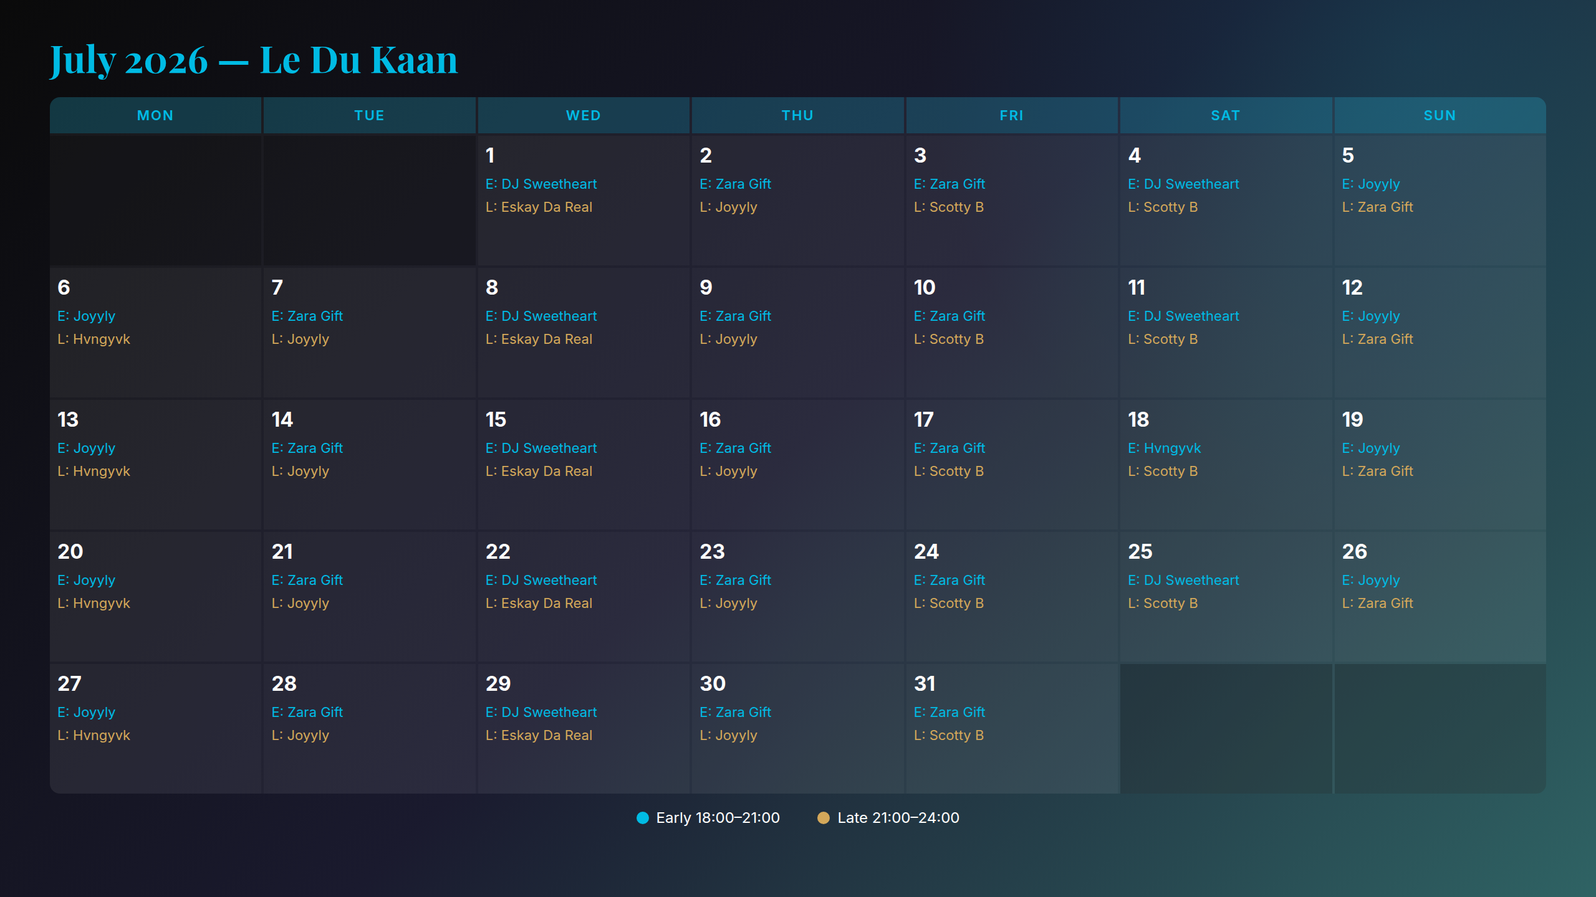
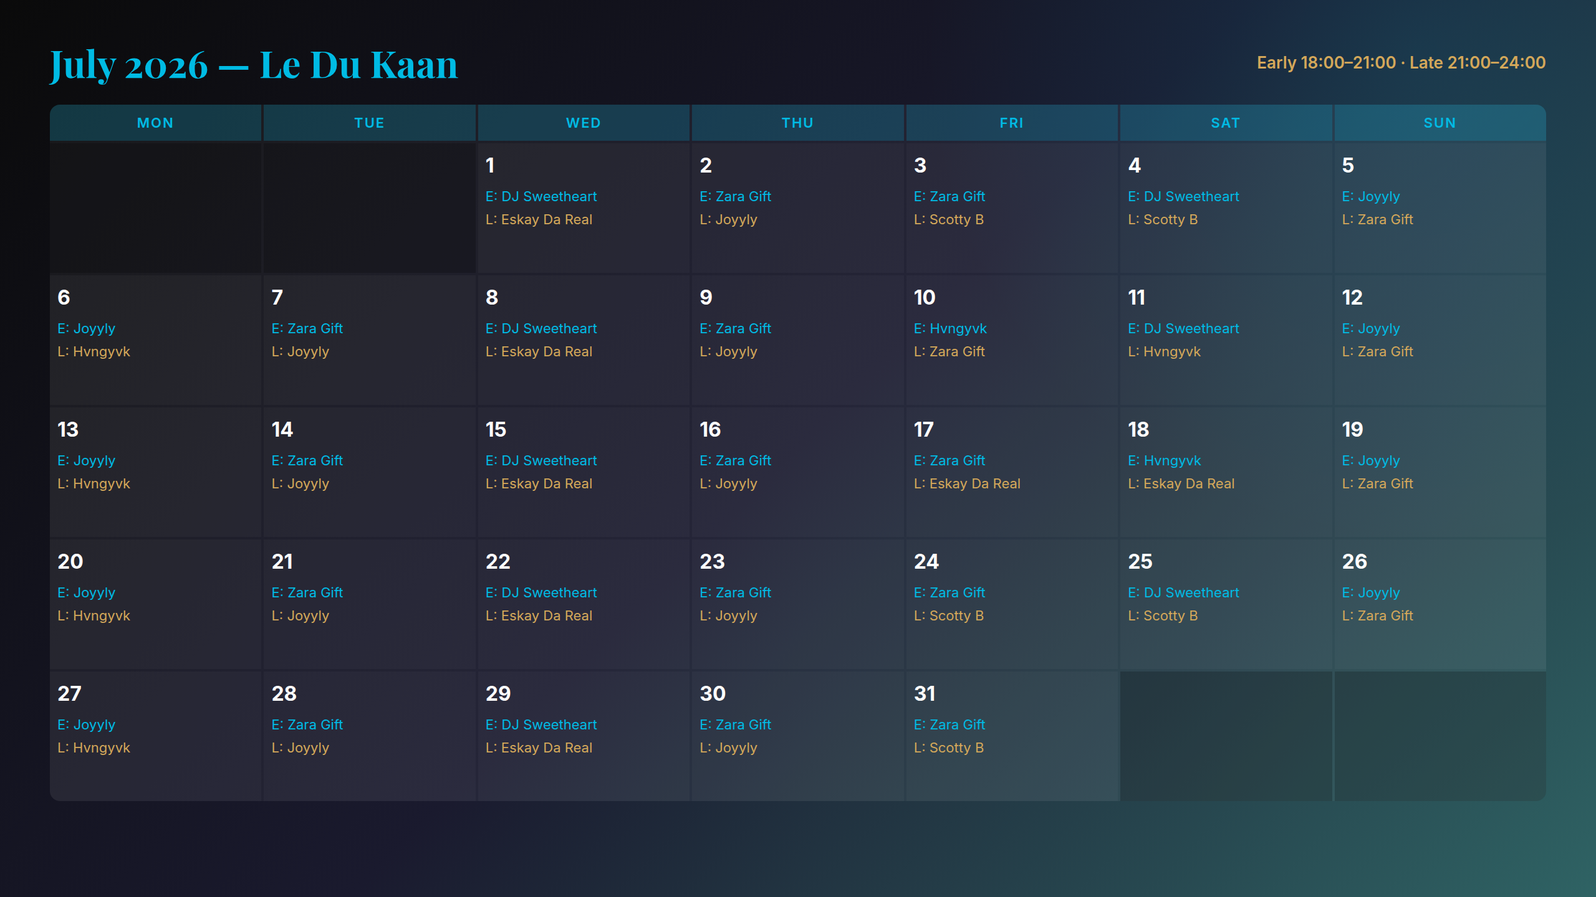
calendars: regenerate July ABar + LDK from DB (Scotty holiday covers)

diff --git a/presentations/july-2026-ldk-schedule.html b/presentations/july-2026-ldk-schedule.html
@@ -1,202 +1,34 @@
-<!DOCTYPE html>
-<html lang="en"><head><meta charset="UTF-8">
+<!DOCTYPE html><html lang="en"><head><meta charset="UTF-8">
 <title>July 2026 Le Du Kaan Schedule - Bright Ears</title>
 <link href="https://fonts.googleapis.com/css2?family=Playfair+Display:wght@400;700&family=Inter:wght@300;400;500;600;700&display=swap" rel="stylesheet">
-<style>
-*{margin:0;padding:0;box-sizing:border-box;}
-:root{--cyan:#00bbe4;--teal:#2f6364;--lavender:#d59ec9;--gold:#d4a85a;--black:#0a0a0a;--white:#ffffff;}
+<style>*{margin:0;padding:0;box-sizing:border-box;}
+:root{--cyan:#00bbe4;--teal:#2f6364;--gold:#d4a85a;--black:#0a0a0a;--white:#ffffff;}
 body{font-family:'Inter',sans-serif;background:var(--black);color:var(--white);}
 @page{size:1280px 720px;margin:0;}
 .slide{width:1280px;height:720px;background:linear-gradient(135deg,var(--black) 0%,#1a1a2e 50%,var(--teal) 100%);position:relative;overflow:hidden;}
 .slide::before{content:'';position:absolute;top:-50%;right:-20%;width:800px;height:800px;background:radial-gradient(circle,rgba(0,187,228,0.12) 0%,transparent 70%);border-radius:50%;}
-.page-calendar{padding:26px 40px;position:relative;z-index:1;}
-.calendar-header{display:flex;justify-content:space-between;align-items:center;margin-bottom:12px;}
+.page-calendar{padding:30px 40px;position:relative;z-index:1;}
+.calendar-header{display:flex;justify-content:space-between;align-items:center;margin-bottom:14px;}
 .calendar-title{font-family:'Playfair Display',serif;font-size:30px;font-weight:700;color:var(--cyan);}
 .calendar-sub{font-size:13px;color:var(--gold);font-weight:600;}
 .calendar-grid{display:grid;grid-template-columns:repeat(7,1fr);gap:2px;background:rgba(255,255,255,0.05);border-radius:8px;overflow:hidden;}
 .calendar-day-header{background:rgba(0,187,228,0.2);padding:8px 4px;text-align:center;font-weight:600;font-size:11px;text-transform:uppercase;letter-spacing:1px;color:var(--cyan);}
-.calendar-cell{background:rgba(255,255,255,0.03);padding:6px 6px;min-height:104px;display:flex;flex-direction:column;}
+.calendar-cell{background:rgba(255,255,255,0.03);padding:8px 6px;min-height:104px;display:flex;flex-direction:column;}
 .calendar-cell.empty{background:rgba(0,0,0,0.2);}
-.day-number{font-size:16px;font-weight:700;color:var(--white);margin-bottom:4px;}
-.dj-slot{font-size:11px;line-height:1.5;padding:1px 0;}
-.dj-slot.early{color:var(--cyan);}
-.dj-slot.late{color:var(--gold);}
-.calendar-legend{display:flex;justify-content:center;gap:30px;margin-top:12px;font-size:12px;}
-.legend-item{display:flex;align-items:center;gap:6px;}
-.legend-dot{width:10px;height:10px;border-radius:50%;}
-.legend-dot.early{background:var(--cyan);}
-.legend-dot.late{background:var(--gold);}
-@media print{.slide{-webkit-print-color-adjust:exact;print-color-adjust:exact;}}
-</style></head>
+.day-number{font-size:16px;font-weight:700;color:var(--white);margin-bottom:6px;}
+.dj-slot{font-size:13px;line-height:1.5;}
+.dj-slot.abar{color:var(--cyan);font-weight:500;}
+.dj-slot.single{color:var(--cyan);font-weight:500;}
+.dj-slot.early{color:var(--cyan);font-size:11px;line-height:1.5;padding:1px 0;}
+.dj-slot.late{color:var(--gold);font-size:11px;line-height:1.5;padding:1px 0;}
+@media print{.slide{-webkit-print-color-adjust:exact;print-color-adjust:exact;}}</style></head>
 <body><div class="slide"><div class="page-calendar">
 <div class="calendar-header">
 <h2 class="calendar-title">July 2026 &mdash; Le Du Kaan</h2>
-
+<div class="calendar-sub">Early 18:00&ndash;21:00 &middot; Late 21:00&ndash;24:00</div>
 </div>
 <div class="calendar-grid">
 <div class="calendar-day-header">Mon</div><div class="calendar-day-header">Tue</div><div class="calendar-day-header">Wed</div><div class="calendar-day-header">Thu</div><div class="calendar-day-header">Fri</div><div class="calendar-day-header">Sat</div><div class="calendar-day-header">Sun</div>
-      <div class="calendar-cell empty"></div>
-      <div class="calendar-cell empty"></div>
-      <div class="calendar-cell">
-        <div class="day-number">1</div>
-        <div class="dj-slot early">E: DJ Sweetheart</div>
-        <div class="dj-slot late">L: Eskay Da Real</div>
-      </div>
-      <div class="calendar-cell">
-        <div class="day-number">2</div>
-        <div class="dj-slot early">E: Zara Gift</div>
-        <div class="dj-slot late">L: Joyyly</div>
-      </div>
-      <div class="calendar-cell">
-        <div class="day-number">3</div>
-        <div class="dj-slot early">E: Zara Gift</div>
-        <div class="dj-slot late">L: Scotty B</div>
-      </div>
-      <div class="calendar-cell">
-        <div class="day-number">4</div>
-        <div class="dj-slot early">E: DJ Sweetheart</div>
-        <div class="dj-slot late">L: Scotty B</div>
-      </div>
-      <div class="calendar-cell">
-        <div class="day-number">5</div>
-        <div class="dj-slot early">E: Joyyly</div>
-        <div class="dj-slot late">L: Zara Gift</div>
-      </div>
-      <div class="calendar-cell">
-        <div class="day-number">6</div>
-        <div class="dj-slot early">E: Joyyly</div>
-        <div class="dj-slot late">L: Hvngyvk</div>
-      </div>
-      <div class="calendar-cell">
-        <div class="day-number">7</div>
-        <div class="dj-slot early">E: Zara Gift</div>
-        <div class="dj-slot late">L: Joyyly</div>
-      </div>
-      <div class="calendar-cell">
-        <div class="day-number">8</div>
-        <div class="dj-slot early">E: DJ Sweetheart</div>
-        <div class="dj-slot late">L: Eskay Da Real</div>
-      </div>
-      <div class="calendar-cell">
-        <div class="day-number">9</div>
-        <div class="dj-slot early">E: Zara Gift</div>
-        <div class="dj-slot late">L: Joyyly</div>
-      </div>
-      <div class="calendar-cell">
-        <div class="day-number">10</div>
-        <div class="dj-slot early">E: Zara Gift</div>
-        <div class="dj-slot late">L: Scotty B</div>
-      </div>
-      <div class="calendar-cell">
-        <div class="day-number">11</div>
-        <div class="dj-slot early">E: DJ Sweetheart</div>
-        <div class="dj-slot late">L: Scotty B</div>
-      </div>
-      <div class="calendar-cell">
-        <div class="day-number">12</div>
-        <div class="dj-slot early">E: Joyyly</div>
-        <div class="dj-slot late">L: Zara Gift</div>
-      </div>
-      <div class="calendar-cell">
-        <div class="day-number">13</div>
-        <div class="dj-slot early">E: Joyyly</div>
-        <div class="dj-slot late">L: Hvngyvk</div>
-      </div>
-      <div class="calendar-cell">
-        <div class="day-number">14</div>
-        <div class="dj-slot early">E: Zara Gift</div>
-        <div class="dj-slot late">L: Joyyly</div>
-      </div>
-      <div class="calendar-cell">
-        <div class="day-number">15</div>
-        <div class="dj-slot early">E: DJ Sweetheart</div>
-        <div class="dj-slot late">L: Eskay Da Real</div>
-      </div>
-      <div class="calendar-cell">
-        <div class="day-number">16</div>
-        <div class="dj-slot early">E: Zara Gift</div>
-        <div class="dj-slot late">L: Joyyly</div>
-      </div>
-      <div class="calendar-cell">
-        <div class="day-number">17</div>
-        <div class="dj-slot early">E: Zara Gift</div>
-        <div class="dj-slot late">L: Scotty B</div>
-      </div>
-      <div class="calendar-cell">
-        <div class="day-number">18</div>
-        <div class="dj-slot early">E: Hvngyvk</div>
-        <div class="dj-slot late">L: Scotty B</div>
-      </div>
-      <div class="calendar-cell">
-        <div class="day-number">19</div>
-        <div class="dj-slot early">E: Joyyly</div>
-        <div class="dj-slot late">L: Zara Gift</div>
-      </div>
-      <div class="calendar-cell">
-        <div class="day-number">20</div>
-        <div class="dj-slot early">E: Joyyly</div>
-        <div class="dj-slot late">L: Hvngyvk</div>
-      </div>
-      <div class="calendar-cell">
-        <div class="day-number">21</div>
-        <div class="dj-slot early">E: Zara Gift</div>
-        <div class="dj-slot late">L: Joyyly</div>
-      </div>
-      <div class="calendar-cell">
-        <div class="day-number">22</div>
-        <div class="dj-slot early">E: DJ Sweetheart</div>
-        <div class="dj-slot late">L: Eskay Da Real</div>
-      </div>
-      <div class="calendar-cell">
-        <div class="day-number">23</div>
-        <div class="dj-slot early">E: Zara Gift</div>
-        <div class="dj-slot late">L: Joyyly</div>
-      </div>
-      <div class="calendar-cell">
-        <div class="day-number">24</div>
-        <div class="dj-slot early">E: Zara Gift</div>
-        <div class="dj-slot late">L: Scotty B</div>
-      </div>
-      <div class="calendar-cell">
-        <div class="day-number">25</div>
-        <div class="dj-slot early">E: DJ Sweetheart</div>
-        <div class="dj-slot late">L: Scotty B</div>
-      </div>
-      <div class="calendar-cell">
-        <div class="day-number">26</div>
-        <div class="dj-slot early">E: Joyyly</div>
-        <div class="dj-slot late">L: Zara Gift</div>
-      </div>
-      <div class="calendar-cell">
-        <div class="day-number">27</div>
-        <div class="dj-slot early">E: Joyyly</div>
-        <div class="dj-slot late">L: Hvngyvk</div>
-      </div>
-      <div class="calendar-cell">
-        <div class="day-number">28</div>
-        <div class="dj-slot early">E: Zara Gift</div>
-        <div class="dj-slot late">L: Joyyly</div>
-      </div>
-      <div class="calendar-cell">
-        <div class="day-number">29</div>
-        <div class="dj-slot early">E: DJ Sweetheart</div>
-        <div class="dj-slot late">L: Eskay Da Real</div>
-      </div>
-      <div class="calendar-cell">
-        <div class="day-number">30</div>
-        <div class="dj-slot early">E: Zara Gift</div>
-        <div class="dj-slot late">L: Joyyly</div>
-      </div>
-      <div class="calendar-cell">
-        <div class="day-number">31</div>
-        <div class="dj-slot early">E: Zara Gift</div>
-        <div class="dj-slot late">L: Scotty B</div>
-      </div>
-      <div class="calendar-cell empty"></div>
-      <div class="calendar-cell empty"></div>
-</div>
-<div class="calendar-legend">
-<div class="legend-item"><span class="legend-dot early"></span> Early 18:00&ndash;21:00</div>
-<div class="legend-item"><span class="legend-dot late"></span> Late 21:00&ndash;24:00</div>
+<div class="calendar-cell empty"></div><div class="calendar-cell empty"></div><div class="calendar-cell"><div class="day-number">1</div><div class="dj-slot early">E: DJ Sweetheart</div><div class="dj-slot late">L: Eskay Da Real</div></div><div class="calendar-cell"><div class="day-number">2</div><div class="dj-slot early">E: Zara Gift</div><div class="dj-slot late">L: Joyyly</div></div><div class="calendar-cell"><div class="day-number">3</div><div class="dj-slot early">E: Zara Gift</div><div class="dj-slot late">L: Scotty B</div></div><div class="calendar-cell"><div class="day-number">4</div><div class="dj-slot early">E: DJ Sweetheart</div><div class="dj-slot late">L: Scotty B</div></div><div class="calendar-cell"><div class="day-number">5</div><div class="dj-slot early">E: Joyyly</div><div class="dj-slot late">L: Zara Gift</div></div><div class="calendar-cell"><div class="day-number">6</div><div class="dj-slot early">E: Joyyly</div><div class="dj-slot late">L: Hvngyvk</div></div><div class="calendar-cell"><div class="day-number">7</div><div class="dj-slot early">E: Zara Gift</div><div class="dj-slot late">L: Joyyly</div></div><div class="calendar-cell"><div class="day-number">8</div><div class="dj-slot early">E: DJ Sweetheart</div><div class="dj-slot late">L: Eskay Da Real</div></div><div class="calendar-cell"><div class="day-number">9</div><div class="dj-slot early">E: Zara Gift</div><div class="dj-slot late">L: Joyyly</div></div><div class="calendar-cell"><div class="day-number">10</div><div class="dj-slot early">E: Hvngyvk</div><div class="dj-slot late">L: Zara Gift</div></div><div class="calendar-cell"><div class="day-number">11</div><div class="dj-slot early">E: DJ Sweetheart</div><div class="dj-slot late">L: Hvngyvk</div></div><div class="calendar-cell"><div class="day-number">12</div><div class="dj-slot early">E: Joyyly</div><div class="dj-slot late">L: Zara Gift</div></div><div class="calendar-cell"><div class="day-number">13</div><div class="dj-slot early">E: Joyyly</div><div class="dj-slot late">L: Hvngyvk</div></div><div class="calendar-cell"><div class="day-number">14</div><div class="dj-slot early">E: Zara Gift</div><div class="dj-slot late">L: Joyyly</div></div><div class="calendar-cell"><div class="day-number">15</div><div class="dj-slot early">E: DJ Sweetheart</div><div class="dj-slot late">L: Eskay Da Real</div></div><div class="calendar-cell"><div class="day-number">16</div><div class="dj-slot early">E: Zara Gift</div><div class="dj-slot late">L: Joyyly</div></div><div class="calendar-cell"><div class="day-number">17</div><div class="dj-slot early">E: Zara Gift</div><div class="dj-slot late">L: Eskay Da Real</div></div><div class="calendar-cell"><div class="day-number">18</div><div class="dj-slot early">E: Hvngyvk</div><div class="dj-slot late">L: Eskay Da Real</div></div><div class="calendar-cell"><div class="day-number">19</div><div class="dj-slot early">E: Joyyly</div><div class="dj-slot late">L: Zara Gift</div></div><div class="calendar-cell"><div class="day-number">20</div><div class="dj-slot early">E: Joyyly</div><div class="dj-slot late">L: Hvngyvk</div></div><div class="calendar-cell"><div class="day-number">21</div><div class="dj-slot early">E: Zara Gift</div><div class="dj-slot late">L: Joyyly</div></div><div class="calendar-cell"><div class="day-number">22</div><div class="dj-slot early">E: DJ Sweetheart</div><div class="dj-slot late">L: Eskay Da Real</div></div><div class="calendar-cell"><div class="day-number">23</div><div class="dj-slot early">E: Zara Gift</div><div class="dj-slot late">L: Joyyly</div></div><div class="calendar-cell"><div class="day-number">24</div><div class="dj-slot early">E: Zara Gift</div><div class="dj-slot late">L: Scotty B</div></div><div class="calendar-cell"><div class="day-number">25</div><div class="dj-slot early">E: DJ Sweetheart</div><div class="dj-slot late">L: Scotty B</div></div><div class="calendar-cell"><div class="day-number">26</div><div class="dj-slot early">E: Joyyly</div><div class="dj-slot late">L: Zara Gift</div></div><div class="calendar-cell"><div class="day-number">27</div><div class="dj-slot early">E: Joyyly</div><div class="dj-slot late">L: Hvngyvk</div></div><div class="calendar-cell"><div class="day-number">28</div><div class="dj-slot early">E: Zara Gift</div><div class="dj-slot late">L: Joyyly</div></div><div class="calendar-cell"><div class="day-number">29</div><div class="dj-slot early">E: DJ Sweetheart</div><div class="dj-slot late">L: Eskay Da Real</div></div><div class="calendar-cell"><div class="day-number">30</div><div class="dj-slot early">E: Zara Gift</div><div class="dj-slot late">L: Joyyly</div></div><div class="calendar-cell"><div class="day-number">31</div><div class="dj-slot early">E: Zara Gift</div><div class="dj-slot late">L: Scotty B</div></div><div class="calendar-cell empty"></div><div class="calendar-cell empty"></div>
 </div>
 </div></div></body></html>

diff --git a/presentations/july-2026-abar-schedule.html b/presentations/july-2026-abar-schedule.html
@@ -1,8 +1,7 @@
 <!DOCTYPE html><html lang="en"><head><meta charset="UTF-8">
 <title>July 2026 ABar Schedule - Bright Ears</title>
 <link href="https://fonts.googleapis.com/css2?family=Playfair+Display:wght@400;700&family=Inter:wght@300;400;500;600;700&display=swap" rel="stylesheet">
-<style>
-*{margin:0;padding:0;box-sizing:border-box;}
+<style>*{margin:0;padding:0;box-sizing:border-box;}
 :root{--cyan:#00bbe4;--teal:#2f6364;--gold:#d4a85a;--black:#0a0a0a;--white:#ffffff;}
 body{font-family:'Inter',sans-serif;background:var(--black);color:var(--white);}
 @page{size:1280px 720px;margin:0;}
@@ -19,9 +18,10 @@ body{font-family:'Inter',sans-serif;background:var(--black);color:var(--white);}
 .day-number{font-size:16px;font-weight:700;color:var(--white);margin-bottom:6px;}
 .dj-slot{font-size:13px;line-height:1.5;}
 .dj-slot.abar{color:var(--cyan);font-weight:500;}
-.calendar-legend{display:flex;justify-content:center;gap:30px;margin-top:14px;font-size:12px;color:var(--gold);}
-@media print{.slide{-webkit-print-color-adjust:exact;print-color-adjust:exact;}}
-</style></head>
+.dj-slot.single{color:var(--cyan);font-weight:500;}
+.dj-slot.early{color:var(--cyan);font-size:11px;line-height:1.5;padding:1px 0;}
+.dj-slot.late{color:var(--gold);font-size:11px;line-height:1.5;padding:1px 0;}
+@media print{.slide{-webkit-print-color-adjust:exact;print-color-adjust:exact;}}</style></head>
 <body><div class="slide"><div class="page-calendar">
 <div class="calendar-header">
 <h2 class="calendar-title">July 2026 &mdash; ABar</h2>
@@ -29,133 +29,6 @@ body{font-family:'Inter',sans-serif;background:var(--black);color:var(--white);}
 </div>
 <div class="calendar-grid">
 <div class="calendar-day-header">Mon</div><div class="calendar-day-header">Tue</div><div class="calendar-day-header">Wed</div><div class="calendar-day-header">Thu</div><div class="calendar-day-header">Fri</div><div class="calendar-day-header">Sat</div><div class="calendar-day-header">Sun</div>
-      <div class="calendar-cell empty"></div>
-      <div class="calendar-cell empty"></div>
-      <div class="calendar-cell">
-        <div class="day-number">1</div>
-        <div class="dj-slot abar">Scotty B</div>
-      </div>
-      <div class="calendar-cell">
-        <div class="day-number">2</div>
-        <div class="dj-slot abar">Scotty B</div>
-      </div>
-      <div class="calendar-cell">
-        <div class="day-number">3</div>
-        <div class="dj-slot abar">DJ Pound</div>
-      </div>
-      <div class="calendar-cell">
-        <div class="day-number">4</div>
-        <div class="dj-slot abar">Benji</div>
-      </div>
-      <div class="calendar-cell">
-        <div class="day-number">5</div>
-        <div class="dj-slot abar">Benji</div>
-      </div>
-      <div class="calendar-cell">
-        <div class="day-number">6</div>
-        <div class="dj-slot abar">Linze</div>
-      </div>
-      <div class="calendar-cell">
-        <div class="day-number">7</div>
-        <div class="dj-slot abar">UFO</div>
-      </div>
-      <div class="calendar-cell">
-        <div class="day-number">8</div>
-        <div class="dj-slot abar">Scotty B</div>
-      </div>
-      <div class="calendar-cell">
-        <div class="day-number">9</div>
-        <div class="dj-slot abar">Scotty B</div>
-      </div>
-      <div class="calendar-cell">
-        <div class="day-number">10</div>
-        <div class="dj-slot abar">DJ Pound</div>
-      </div>
-      <div class="calendar-cell">
-        <div class="day-number">11</div>
-        <div class="dj-slot abar">Benji</div>
-      </div>
-      <div class="calendar-cell">
-        <div class="day-number">12</div>
-        <div class="dj-slot abar">Benji</div>
-      </div>
-      <div class="calendar-cell">
-        <div class="day-number">13</div>
-        <div class="dj-slot abar">Linze</div>
-      </div>
-      <div class="calendar-cell">
-        <div class="day-number">14</div>
-        <div class="dj-slot abar">UFO</div>
-      </div>
-      <div class="calendar-cell">
-        <div class="day-number">15</div>
-        <div class="dj-slot abar">Scotty B</div>
-      </div>
-      <div class="calendar-cell">
-        <div class="day-number">16</div>
-        <div class="dj-slot abar">Scotty B</div>
-      </div>
-      <div class="calendar-cell">
-        <div class="day-number">17</div>
-        <div class="dj-slot abar">DJ Pound</div>
-      </div>
-      <div class="calendar-cell">
-        <div class="day-number">18</div>
-        <div class="dj-slot abar">Benji</div>
-      </div>
-      <div class="calendar-cell">
-        <div class="day-number">19</div>
-        <div class="dj-slot abar">Benji</div>
-      </div>
-      <div class="calendar-cell">
-        <div class="day-number">20</div>
-        <div class="dj-slot abar">Linze</div>
-      </div>
-      <div class="calendar-cell">
-        <div class="day-number">21</div>
-        <div class="dj-slot abar">UFO</div>
-      </div>
-      <div class="calendar-cell">
-        <div class="day-number">22</div>
-        <div class="dj-slot abar">Scotty B</div>
-      </div>
-      <div class="calendar-cell">
-        <div class="day-number">23</div>
-        <div class="dj-slot abar">Scotty B</div>
-      </div>
-      <div class="calendar-cell">
-        <div class="day-number">24</div>
-        <div class="dj-slot abar">DJ Pound</div>
-      </div>
-      <div class="calendar-cell">
-        <div class="day-number">25</div>
-        <div class="dj-slot abar">Benji</div>
-      </div>
-      <div class="calendar-cell">
-        <div class="day-number">26</div>
-        <div class="dj-slot abar">Benji</div>
-      </div>
-      <div class="calendar-cell">
-        <div class="day-number">27</div>
-        <div class="dj-slot abar">Linze</div>
-      </div>
-      <div class="calendar-cell">
-        <div class="day-number">28</div>
-        <div class="dj-slot abar">UFO</div>
-      </div>
-      <div class="calendar-cell">
-        <div class="day-number">29</div>
-        <div class="dj-slot abar">Scotty B</div>
-      </div>
-      <div class="calendar-cell">
-        <div class="day-number">30</div>
-        <div class="dj-slot abar">Scotty B</div>
-      </div>
-      <div class="calendar-cell">
-        <div class="day-number">31</div>
-        <div class="dj-slot abar">DJ Pound</div>
-      </div>
-      <div class="calendar-cell empty"></div>
-      <div class="calendar-cell empty"></div>
+<div class="calendar-cell empty"></div><div class="calendar-cell empty"></div><div class="calendar-cell"><div class="day-number">1</div><div class="dj-slot single">Scotty B</div></div><div class="calendar-cell"><div class="day-number">2</div><div class="dj-slot single">Eskay Da Real</div></div><div class="calendar-cell"><div class="day-number">3</div><div class="dj-slot single">DJ Pound</div></div><div class="calendar-cell"><div class="day-number">4</div><div class="dj-slot single">Benji</div></div><div class="calendar-cell"><div class="day-number">5</div><div class="dj-slot single">Benji</div></div><div class="calendar-cell"><div class="day-number">6</div><div class="dj-slot single">Linze</div></div><div class="calendar-cell"><div class="day-number">7</div><div class="dj-slot single">UFO</div></div><div class="calendar-cell"><div class="day-number">8</div><div class="dj-slot single">UFO</div></div><div class="calendar-cell"><div class="day-number">9</div><div class="dj-slot single">Yui Truluv</div></div><div class="calendar-cell"><div class="day-number">10</div><div class="dj-slot single">DJ Pound</div></div><div class="calendar-cell"><div class="day-number">11</div><div class="dj-slot single">Benji</div></div><div class="calendar-cell"><div class="day-number">12</div><div class="dj-slot single">Benji</div></div><div class="calendar-cell"><div class="day-number">13</div><div class="dj-slot single">Linze</div></div><div class="calendar-cell"><div class="day-number">14</div><div class="dj-slot single">UFO</div></div><div class="calendar-cell"><div class="day-number">15</div><div class="dj-slot single">UFO</div></div><div class="calendar-cell"><div class="day-number">16</div><div class="dj-slot single">Yui Truluv</div></div><div class="calendar-cell"><div class="day-number">17</div><div class="dj-slot single">DJ Pound</div></div><div class="calendar-cell"><div class="day-number">18</div><div class="dj-slot single">Benji</div></div><div class="calendar-cell"><div class="day-number">19</div><div class="dj-slot single">Benji</div></div><div class="calendar-cell"><div class="day-number">20</div><div class="dj-slot single">Linze</div></div><div class="calendar-cell"><div class="day-number">21</div><div class="dj-slot single">UFO</div></div><div class="calendar-cell"><div class="day-number">22</div><div class="dj-slot single">Scotty B</div></div><div class="calendar-cell"><div class="day-number">23</div><div class="dj-slot single">Scotty B</div></div><div class="calendar-cell"><div class="day-number">24</div><div class="dj-slot single">DJ Pound</div></div><div class="calendar-cell"><div class="day-number">25</div><div class="dj-slot single">Benji</div></div><div class="calendar-cell"><div class="day-number">26</div><div class="dj-slot single">Benji</div></div><div class="calendar-cell"><div class="day-number">27</div><div class="dj-slot single">Linze</div></div><div class="calendar-cell"><div class="day-number">28</div><div class="dj-slot single">UFO</div></div><div class="calendar-cell"><div class="day-number">29</div><div class="dj-slot single">Scotty B</div></div><div class="calendar-cell"><div class="day-number">30</div><div class="dj-slot single">Scotty B</div></div><div class="calendar-cell"><div class="day-number">31</div><div class="dj-slot single">DJ Pound</div></div><div class="calendar-cell empty"></div><div class="calendar-cell empty"></div>
 </div>
 </div></div></body></html>
